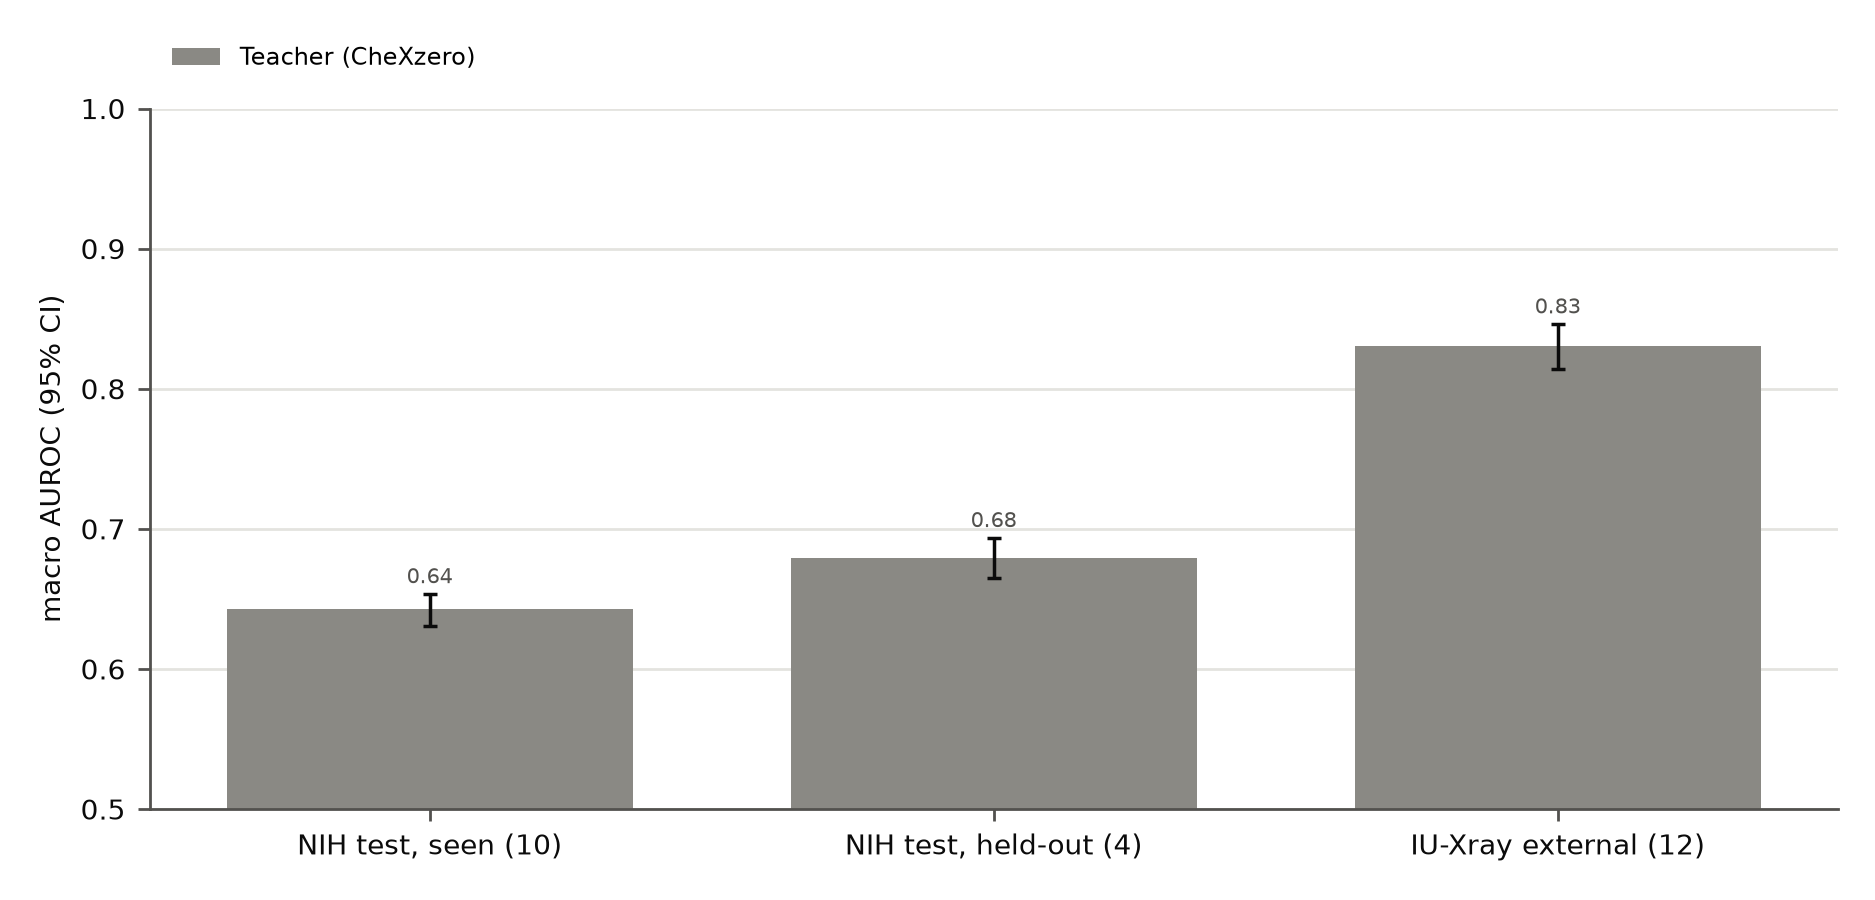
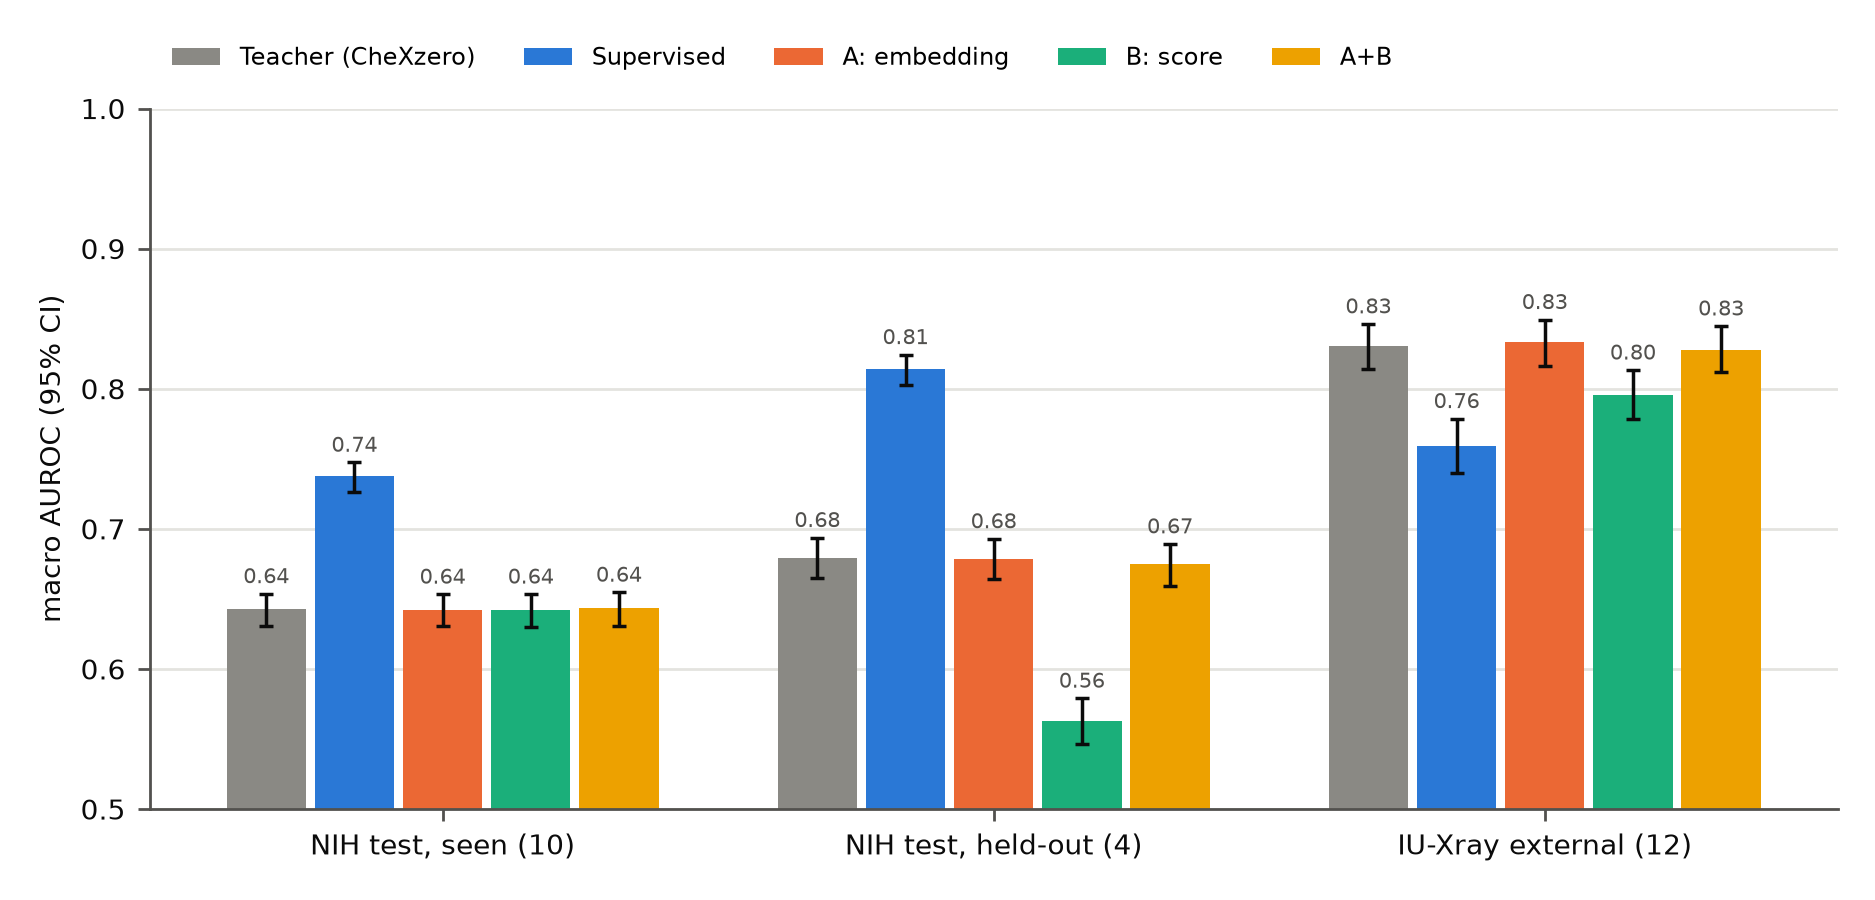
feat: seed-0 results and figures, fix teacher Grad-CAM layer

diff --git a/scripts/qualitative.py b/scripts/qualitative.py
@@ -1,7 +1,8 @@
 """Poster figures: t-SNE of teacher and student embeddings, and Grad-CAM where teacher and student disagree.
 
 Grad-CAM target for both models is the same prompt-score logit, cos(z, "finding") - cos(z, "no finding").
-Student layer: ResNet-18 layer4 (7x7). Teacher layer: last ViT block tokens without CLS (7x7 patches).
+Student layer: ResNet-18 layer4 (7x7). Teacher layer: tokens entering the last ViT block, without CLS (7x7 patches).
+After the last block only CLS reaches the output, so its patch tokens have zero gradient.
 Usage: uv run python scripts/qualitative.py [--arm A] [--seed 0]
 """
 
@@ -19,7 +20,7 @@ from discipulus.teacher import load_cache, load_teacher, prompt_probs
 from discipulus.train import RUNS
 
 OUT = ROOT / "results" / "figures"
-GROUPS = ["No Finding", "Effusion", "Cardiomegaly", "Infiltration"]
+GROUPS = {"No Finding": "#2a78d6", "Effusion": "#eb6834", "Cardiomegaly": "#1baf7a", "Infiltration": "#eda100"}
 
 
 def tsne_figure(seed: int, splits, cache) -> None:
@@ -30,7 +31,7 @@ def tsne_figure(seed: int, splits, cache) -> None:
     # one colour per image: first matching group, single-label images only so colours are unambiguous
     group = np.full(len(pick), -1)
     group[lab.sum(1) == 0] = 0
-    for g, f in enumerate(GROUPS[1:], start=1):
+    for g, f in enumerate(list(GROUPS)[1:], start=1):
         group[(lab[:, FINDINGS.index(f)] == 1) & (lab.sum(1) == 1)] = g
     embs = {"Teacher": cache["emb"][test[pick]].float()}
     for arm, name in (("A", "A: embedding"), ("B", "B: score"), ("AB", "A+B")):
@@ -41,9 +42,9 @@ def tsne_figure(seed: int, splits, cache) -> None:
     for ax, (name, e) in zip(np.atleast_1d(axes), embs.items(), strict=True):
         xy = TSNE(init="pca", random_state=0, perplexity=40).fit_transform(F.normalize(e, dim=-1).numpy())
         ax.scatter(xy[group == -1, 0], xy[group == -1, 1], s=2, c="#cccccc", label="other / multi-label")
-        for g, gname in enumerate(GROUPS):
+        for g, (gname, color) in enumerate(GROUPS.items()):
             m = group == g
-            ax.scatter(xy[m, 0], xy[m, 1], s=3, label=gname)
+            ax.scatter(xy[m, 0], xy[m, 1], s=3, c=color, label=gname)
         ax.set_title(name)
         ax.set_xticks([])
         ax.set_yticks([])
@@ -68,7 +69,8 @@ def gradcam_figure(arm: str, seed: int, splits, cache, n: int = 4) -> None:
     p_t = prompt_probs(cache["emb"][test].float().cuda(), bank)[:, 0].cpu().numpy()
     # disagreement on the rank scale, positives only, for the finding where the two disagree most
     rank = lambda p: p.argsort(0).argsort(0) / len(p)  # noqa: E731
-    gap = np.abs(rank(p_s) - rank(p_t))
+    r_s, r_t = rank(p_s), rank(p_t)
+    gap = np.abs(r_s - r_t)
     labels = splits.loc[test, FINDINGS].to_numpy()
     f = int((gap * labels).sum(0).argmax())
     cand = np.flatnonzero(labels[:, f] == 1)
@@ -84,7 +86,7 @@ def gradcam_figure(arm: str, seed: int, splits, cache, n: int = 4) -> None:
     for r, i in enumerate(chosen):
         x = normalize(torch.from_numpy(np.array(store[test[i]]))[None].cuda()).requires_grad_(False)
         maps = []
-        layers = (teacher.get_submodule("visual.transformer.resblocks.11"), student.get_submodule("layer4"))
+        layers = (teacher.get_submodule("visual.transformer.resblocks.10"), student.get_submodule("layer4"))
         for model, layer in zip((teacher, student), layers, strict=True):
             saved: dict[str, torch.Tensor] = {}
             h = layer.register_forward_hook(lambda _m, _i, o, saved=saved: saved.__setitem__("a", o))
@@ -100,7 +102,7 @@ def gradcam_figure(arm: str, seed: int, splits, cache, n: int = 4) -> None:
             maps.append(gradcam(a.float(), g.float()))
         img = np.array(store[test[i]])
         axes[r, 0].imshow(img, cmap="gray")
-        axes[r, 0].set_title(f"{FINDINGS[f]} +  T {p_t[i, f]:.3f} / S {p_s[i, f]:.3f}", fontsize=7)
+        axes[r, 0].set_title(f"{FINDINGS[f]} +, percentile T {r_t[i, f]:.2f} / S {r_s[i, f]:.2f}", fontsize=7)
         for c, (title, m) in enumerate((("Teacher Grad-CAM", maps[0]), (f"Student {arm} Grad-CAM", maps[1])), 1):
             axes[r, c].imshow(img, cmap="gray")
             axes[r, c].imshow(m, cmap="jet", alpha=0.4)
